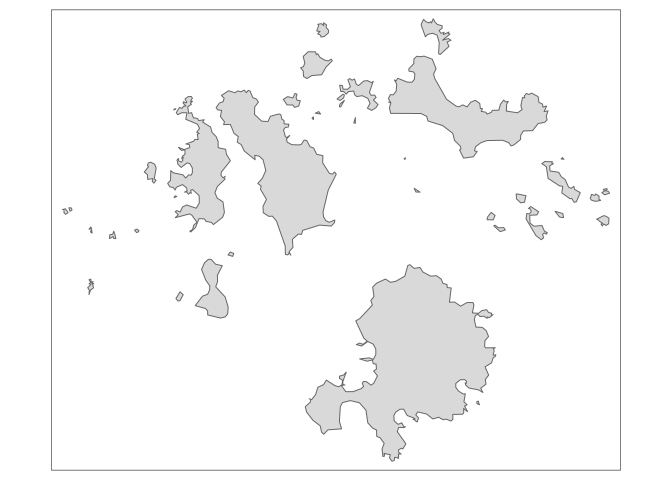
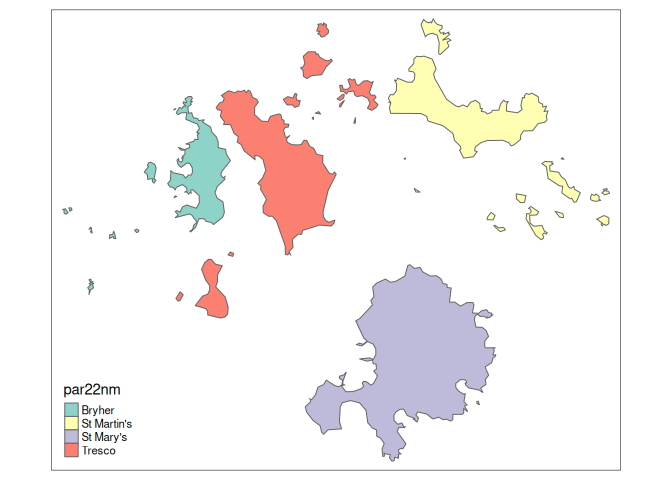
Improve examples in README

diff --git a/README.md b/README.md
@@ -22,11 +22,11 @@ column, as an `sf` object ready to be visualised as a map.
 
 The structure of the project looks a bit like this:
 
-    bounds() [main UI function]
+    bounds() / points() [main UI functions]
        ^
        |
        |
-        <-------  create_lookup_table()
+        <-------  create_lookup_table() [available to the user]
        |                ^
        |                |
        |                 <--------- return_query_data()
@@ -63,7 +63,7 @@ onto the lookup table and provided to you as an `sf` tibble.
 
 You can install this package from the `R` console by entering
 
-`remotes::install_github("francisbarton/boundr")`
+> `remotes::install_github("francisbarton/boundr")`
 
 if you have the `remotes` package installed.
 
@@ -74,24 +74,36 @@ if you have the `remotes` package installed.
 Returns sfc tibble with latest available data
 
 ``` r
+
 bounds("msoa", "lad", "Swansea")
-#> Simple feature collection with 150 features and 4 fields
+#> Simple feature collection with 30 features and 7 fields
 #> Geometry type: GEOMETRY
 #> Dimension:     XY
 #> Bounding box:  xmin: -4.333587 ymin: 51.53577 xmax: -3.842747 ymax: 51.77423
 #> Geodetic CRS:  WGS 84
 #> First 10 features:
-#>     lsoa21cd     lsoa21nm   lad23cd lad23nm                       geometry
-#> 1  W01000736 Swansea 028A W06000011 Swansea POLYGON ((-4.040871 51.5853...
-#> 2  W01000737 Swansea 028B W06000011 Swansea MULTIPOLYGON (((-4.0361 51....
-#> 3  W01000738 Swansea 014A W06000011 Swansea POLYGON ((-3.874889 51.6505...
-#> 4  W01000739 Swansea 014B W06000011 Swansea POLYGON ((-3.914009 51.6401...
-#> 5  W01000740 Swansea 014C W06000011 Swansea POLYGON ((-3.904865 51.6542...
-#> 6  W01000741 Swansea 014D W06000011 Swansea POLYGON ((-3.90558 51.65353...
-#> 7  W01000742 Swansea 016A W06000011 Swansea POLYGON ((-3.943777 51.6373...
-#> 8  W01000744 Swansea 016B W06000011 Swansea POLYGON ((-3.948747 51.6326...
-#> 9  W01000745 Swansea 025B W06000011 Swansea POLYGON ((-3.946384 51.6211...
-#> 10 W01000746 Swansea 025C W06000011 Swansea POLYGON ((-3.946375 51.6278...
+#>     msoa21cd    msoa21nm    msoa21nmw            msoa21hclnm
+#> 1  W02000168 Swansea 001 Abertawe 001          Pontarddulais
+#> 2  W02000169 Swansea 002 Abertawe 002         Clydach & Mawr
+#> 3  W02000170 Swansea 003 Abertawe 003        Morriston North
+#> 4  W02000171 Swansea 004 Abertawe 004 Llangyfelach & Tircoed
+#> 5  W02000172 Swansea 005 Abertawe 005              Gorseinon
+#> 6  W02000173 Swansea 006 Abertawe 006             Birchgrove
+#> 7  W02000174 Swansea 007 Abertawe 007                Loughor
+#> 8  W02000175 Swansea 008 Abertawe 008        Morriston South
+#> 9  W02000176 Swansea 009 Abertawe 009            Mynydd-bach
+#> 10 W02000177 Swansea 010 Abertawe 010             Llansamlet
+#>               msoa21hclnmw   lad23cd lad23nm                       geometry
+#> 1            Pontarddulais W06000011 Swansea MULTIPOLYGON (((-4.044836 5...
+#> 2           Clydach a Mawr W06000011 Swansea POLYGON ((-3.976283 51.7646...
+#> 3         Gogledd Treforys W06000011 Swansea POLYGON ((-3.913253 51.6935...
+#> 4  Llangyfelach a Thircoed W06000011 Swansea POLYGON ((-4.011018 51.7080...
+#> 5                Gorseinon W06000011 Swansea MULTIPOLYGON (((-4.062941 5...
+#> 6                Gellifedw W06000011 Swansea POLYGON ((-3.875069 51.6875...
+#> 7               Casllwchwr W06000011 Swansea MULTIPOLYGON (((-4.053356 5...
+#> 8              De Treforys W06000011 Swansea POLYGON ((-3.929819 51.6721...
+#> 9              Mynydd-bach W06000011 Swansea POLYGON ((-3.933911 51.6730...
+#> 10              Llansamlet W06000011 Swansea POLYGON ((-3.898853 51.6750...
 ```
 
 ### Lookup areas with older dates
@@ -100,24 +112,36 @@ Trial and error may be required - or start by looking up what is
 available on the OpenGeography site.
 
 ``` r
+
 bounds("msoa", "lad", "Shepway", lookup_year = 2011, within_year = 2015)
-#> Simple feature collection with 67 features and 4 fields
+#> Simple feature collection with 14 features and 5 fields
 #> Geometry type: POLYGON
 #> Dimension:     XY
 #> Bounding box:  xmin: 0.7770266 ymin: 50.91095 xmax: 1.221137 ymax: 51.205
 #> Geodetic CRS:  WGS 84
 #> First 10 features:
-#>     lsoa11cd     lsoa11nm   lad15cd lad15nm                       geometry
-#> 1  E01024486 Shepway 011A E07000112 Shepway POLYGON ((0.9871731 51.0385...
-#> 2  E01024487 Shepway 011B E07000112 Shepway POLYGON ((0.977373 51.0179,...
-#> 3  E01024488 Shepway 011C E07000112 Shepway POLYGON ((0.9724648 51.0127...
-#> 4  E01024489 Shepway 009A E07000112 Shepway POLYGON ((1.02856 51.05629,...
-#> 5  E01024490 Shepway 001A E07000112 Shepway POLYGON ((1.089762 51.18973...
-#> 6  E01024491 Shepway 005A E07000112 Shepway POLYGON ((1.13853 51.0908, ...
-#> 7  E01024492 Shepway 002A E07000112 Shepway POLYGON ((1.141129 51.10232...
-#> 8  E01024493 Shepway 005B E07000112 Shepway POLYGON ((1.146521 51.09351...
-#> 9  E01024494 Shepway 005C E07000112 Shepway POLYGON ((1.135277 51.09801...
-#> 10 E01024495 Shepway 005D E07000112 Shepway POLYGON ((1.1419 51.08616, ...
+#>     msoa11cd    msoa11nm                          msoa11hclnm   lad15cd lad15nm
+#> 1  E02005102 Shepway 001             Lyminge, Densole & Elham E07000112 Shepway
+#> 2  E02005103 Shepway 002                             Hawkinge E07000112 Shepway
+#> 3  E02005104 Shepway 003                Folkestone North East E07000112 Shepway
+#> 4  E02005105 Shepway 004                     Folkestone Foord E07000112 Shepway
+#> 5  E02005106 Shepway 005               Cheriton & Horn Street E07000112 Shepway
+#> 6  E02005107 Shepway 006       Folkestone Morehall & Sandgate E07000112 Shepway
+#> 7  E02005109 Shepway 008     Saltwood, Seabrook & Etchinghill E07000112 Shepway
+#> 8  E02005110 Shepway 009                    Lympne & Palmarsh E07000112 Shepway
+#> 9  E02005111 Shepway 010                                Hythe E07000112 Shepway
+#> 10 E02005112 Shepway 011 Dymchurch, St Mary's Bay & Brookland E07000112 Shepway
+#>                          geometry
+#> 1  POLYGON ((1.089762 51.18973...
+#> 2  POLYGON ((1.170835 51.13259...
+#> 3  POLYGON ((1.184798 51.09985...
+#> 4  POLYGON ((1.189394 51.08954...
+#> 5  POLYGON ((1.135277 51.09801...
+#> 6  POLYGON ((1.17032 51.0953, ...
+#> 7  POLYGON ((1.111727 51.12941...
+#> 8  POLYGON ((1.000461 51.1184,...
+#> 9  POLYGON ((1.062613 51.07642...
+#> 10 POLYGON ((0.9884286 51.0706...
 ```
 
 ### Alternative ways to achieve a goal
@@ -158,47 +182,7 @@ bounds("rgn", country_filter = "EN", resolution = "BUC")
 #> 7 14913854032    1066984.7 POLYGON ((-2.675591 55.1733...
 #> 8 19399927121    1389475.4 MULTIPOLYGON (((-1.590507 5...
 #> 9 24385283189    2378388.7 MULTIPOLYGON (((-6.398846 4...
-bounds("rgn", "ctry", "England", lookup_year = 2022, resolution = "BUC")
-#> Lookup table data ■■■■ 9% | ETA: 12sLookup table data ■■■■ 10% | ETA: 15sLookup
-#> table data ■■■■ 11% | ETA: 14sLookup table data ■■■■■ 13% | ETA: 13sLookup
-#> table data ■■■■■ 14% | ETA: 13sLookup table data ■■■■■■ 16% | ETA: 12sLookup
-#> table data ■■■■■■ 17% | ETA: 12sLookup table data ■■■■■■■ 20% | ETA: 11sLookup
-#> table data ■■■■■■■ 21% | ETA: 11sLookup table data ■■■■■■■■ 23% | ETA:
-#> 11sLookup table data ■■■■■■■■ 24% | ETA: 10sLookup table data ■■■■■■■■■ 26% |
-#> ETA: 10sLookup table data ■■■■■■■■■ 27% | ETA: 10sLookup table data ■■■■■■■■■■
-#> 30% | ETA: 9sLookup table data ■■■■■■■■■■ 31% | ETA: 9sLookup table data
-#> ■■■■■■■■■■■ 33% | ETA: 9sLookup table data ■■■■■■■■■■■ 34% | ETA: 9sLookup
-#> table data ■■■■■■■■■■■■ 36% | ETA: 9sLookup table data ■■■■■■■■■■■■ 37% | ETA:
-#> 8sLookup table data ■■■■■■■■■■■■■ 39% | ETA: 8sLookup table data ■■■■■■■■■■■■■
-#> 40% | ETA: 8sLookup table data ■■■■■■■■■■■■■ 41% | ETA: 8sLookup table data
-#> ■■■■■■■■■■■■■■ 43% | ETA: 8sLookup table data ■■■■■■■■■■■■■■ 44% | ETA:
-#> 7sLookup table data ■■■■■■■■■■■■■■■ 46% | ETA: 7sLookup table data
-#> ■■■■■■■■■■■■■■■ 47% | ETA: 7sLookup table data ■■■■■■■■■■■■■■■■ 50% | ETA:
-#> 7sLookup table data ■■■■■■■■■■■■■■■■ 51% | ETA: 6sLookup table data
-#> ■■■■■■■■■■■■■■■■■ 53% | ETA: 6sLookup table data ■■■■■■■■■■■■■■■■■ 54% | ETA:
-#> 6sLookup table data ■■■■■■■■■■■■■■■■■■ 56% | ETA: 6sLookup table data
-#> ■■■■■■■■■■■■■■■■■■ 57% | ETA: 6sLookup table data ■■■■■■■■■■■■■■■■■■■ 60% |
-#> ETA: 5sLookup table data ■■■■■■■■■■■■■■■■■■■ 61% | ETA: 5sLookup table data
-#> ■■■■■■■■■■■■■■■■■■■■ 63% | ETA: 5sLookup table data ■■■■■■■■■■■■■■■■■■■■ 64% |
-#> ETA: 5sLookup table data ■■■■■■■■■■■■■■■■■■■■■ 66% | ETA: 4sLookup table data
-#> ■■■■■■■■■■■■■■■■■■■■■ 67% | ETA: 4sLookup table data ■■■■■■■■■■■■■■■■■■■■■■ 69%
-#> | ETA: 5sLookup table data ■■■■■■■■■■■■■■■■■■■■■■ 70% | ETA: 4sLookup table
-#> data ■■■■■■■■■■■■■■■■■■■■■■ 71% | ETA: 4sLookup table data
-#> ■■■■■■■■■■■■■■■■■■■■■■■ 73% | ETA: 4sLookup table data ■■■■■■■■■■■■■■■■■■■■■■■
-#> 74% | ETA: 4sLookup table data ■■■■■■■■■■■■■■■■■■■■■■■■ 76% | ETA: 3sLookup
-#> table data ■■■■■■■■■■■■■■■■■■■■■■■■ 77% | ETA: 3sLookup table data
-#> ■■■■■■■■■■■■■■■■■■■■■■■■■ 80% | ETA: 3sLookup table data
-#> ■■■■■■■■■■■■■■■■■■■■■■■■■ 81% | ETA: 3sLookup table data
-#> ■■■■■■■■■■■■■■■■■■■■■■■■■■ 83% | ETA: 2sLookup table data
-#> ■■■■■■■■■■■■■■■■■■■■■■■■■■ 84% | ETA: 2sLookup table data
-#> ■■■■■■■■■■■■■■■■■■■■■■■■■■■ 87% | ETA: 2sLookup table data
-#> ■■■■■■■■■■■■■■■■■■■■■■■■■■■■ 89% | ETA: 2sLookup table data
-#> ■■■■■■■■■■■■■■■■■■■■■■■■■■■■ 90% | ETA: 1sLookup table data
-#> ■■■■■■■■■■■■■■■■■■■■■■■■■■■■ 91% | ETA: 1sLookup table data
-#> ■■■■■■■■■■■■■■■■■■■■■■■■■■■■■ 93% | ETA: 1sLookup table data
-#> ■■■■■■■■■■■■■■■■■■■■■■■■■■■■■■ 96% | ETA: 1sLookup table data
-#> ■■■■■■■■■■■■■■■■■■■■■■■■■■■■■■ 97% | ETA: 0sLookup table data
-#> ■■■■■■■■■■■■■■■■■■■■■■■■■■■■■■■ 99% | ETA: 0s
+bounds("region", "country", "England", lookup_year = 2022, resolution = "BUC")
 #> Simple feature collection with 9 features and 4 fields
 #> Geometry type: GEOMETRY
 #> Dimension:     XY
@@ -226,12 +210,59 @@ bounds("rgn", "ctry", "England", lookup_year = 2022, resolution = "BUC")
 #> 9 MULTIPOLYGON (((-6.349051 4...
 ```
 
-### A lookup table for Welsh local authorities to Senedd electoral regions
-
-Using `return_with = "full"` includes the Welsh language data columns.
+### You can just request bare lookup tables - no spatial data attached
 
 ``` r
-create_lookup_table("ua", "sener", return_width = "full") |>
+
+create_lookup_table("spc", "spr")
+#> # A tibble: 73 × 4
+#>    spc22cd   spc22nm                        spr22cd   spr22nm              
+#>    <chr>     <chr>                          <chr>     <chr>                
+#>  1 S16000083 Argyll and Bute                S17000011 Highlands and Islands
+#>  2 S16000086 Caithness, Sutherland and Ross S17000011 Highlands and Islands
+#>  3 S16000110 Na h-Eileanan an Iar           S17000011 Highlands and Islands
+#>  4 S16000125 Inverness and Nairn            S17000011 Highlands and Islands
+#>  5 S16000132 Moray                          S17000011 Highlands and Islands
+#>  6 S16000135 Orkney Islands                 S17000011 Highlands and Islands
+#>  7 S16000142 Shetland Islands               S17000011 Highlands and Islands
+#>  8 S16000143 Skye, Lochaber and Badenoch    S17000011 Highlands and Islands
+#>  9 S16000080 Almond Valley                  S17000012 Lothian              
+#> 10 S16000104 Edinburgh Central              S17000012 Lothian              
+#> # ℹ 63 more rows
+```
+
+### A lookup table for Welsh local authorities to Senedd electoral regions
+
+Sometimes boundr needs a little help finding what you are looking for.
+Supplying a year or country filter can help get the right table.
+
+Using `return_with = "full"` includes all available columns, not just
+those referred to by the `lookup` and `within` arguments.
+
+``` r
+
+# This doesn't succeed:
+# create_lookup_table("wd", "sener")
+
+# supplying a year helps:
+create_lookup_table("wd", "sener", lookup_year = 2022, return_width = "full")
+#> # A tibble: 764 × 7
+#>    wd22cd    wd22nm          ua22cd    ua22nm        ua22nmw sener22cd sener22nm
+#>    <chr>     <chr>           <chr>     <chr>         <chr>   <chr>     <chr>    
+#>  1 W05001492 Aethwy          W06000001 Isle of Angl… Ynys M… W10000001 North Wa…
+#>  2 W05001493 Bodowyr         W06000001 Isle of Angl… Ynys M… W10000001 North Wa…
+#>  3 W05001494 Bro Aberffraw   W06000001 Isle of Angl… Ynys M… W10000001 North Wa…
+#>  4 W05001495 Bro'r Llynnoedd W06000001 Isle of Angl… Ynys M… W10000001 North Wa…
+#>  5 W05001496 Canolbarth Môn  W06000001 Isle of Angl… Ynys M… W10000001 North Wa…
+#>  6 W05001497 Cefni           W06000001 Isle of Angl… Ynys M… W10000001 North Wa…
+#>  7 W05001498 Crigyll         W06000001 Isle of Angl… Ynys M… W10000001 North Wa…
+#>  8 W05001499 Lligwy          W06000001 Isle of Angl… Ynys M… W10000001 North Wa…
+#>  9 W05001500 Parc a'r Mynydd W06000001 Isle of Angl… Ynys M… W10000001 North Wa…
+#> 10 W05001501 Seiriol         W06000001 Isle of Angl… Ynys M… W10000001 North Wa…
+#> # ℹ 754 more rows
+
+# or a country filter:
+create_lookup_table("wd", "sener", country_filter = "WA", return_width = "full") |>
   dplyr::filter(sener22nm == "South Wales West")
 #> # A tibble: 4 × 7
 #>   wd22cd    wd22nm               ua22cd    ua22nm    ua22nmw sener22cd sener22nm
@@ -242,14 +273,21 @@ create_lookup_table("ua", "sener", return_width = "full") |>
 #> 4 W05001099 Pontyclun West       W06000016 Rhondda … Rhondd… W10000009 South Wa…
 ```
 
+### The sfc tibble is ready to be passed to a mapping function:
+
 ``` r
 bounds("parish", "utla", "Isles of Scilly") |>
-  tmap::qtm()
+  tmap::qtm(fill = "par22nm", palette = "Accent")
 ```
 
 <img src="man/figures/README-example-5-1.png" width="100%" />
 
+### bounds now supports a shortcut which will return all bounds for a certain level, without having to specify a ‘within’ argument
+
+Take care - you might download a lot of data!
+
 ``` r
+
 bounds("spr")
 #> Simple feature collection with 8 features and 8 fields
 #> Geometry type: GEOMETRY
@@ -276,26 +314,53 @@ bounds("spr")
 #> 8    193925.75 POLYGON ((-3.425965 55.9938...
 ```
 
+### The points() function returns area (population-weighted) centroids where available
+
+(Check the OG website).
+
 ``` r
 sb <- bounds("msoa", "lad", "Swindon")
 sp <- points("msoa", "utla", "Swindon")
 
 sb |>
   ggplot2::ggplot() +
-  ggplot2::geom_sf() +
+  ggplot2::geom_sf(colour = "grey33", fill = "grey95") +
   ggplot2::geom_sf(data = sp, colour = "orange") +
   ggplot2::theme_void()
 ```
 
 <img src="man/figures/README-example-7-1.png" width="100%" />
 
+### A ggplot2 example
+
+Here we specify a ‘within_names’ argument alongside the ‘lookup’
+argument. There’s no ‘within’ argument to be specified because there’s
+nothing to lookup. (There aren’t any lookup tables for National Parks -
+just the boundaries).
+
 ``` r
+
 bounds("npark", within_names = "Bannau Brycheiniog", resolution = "BUC") |>
   ggplot2::ggplot() +
   ggplot2::geom_sf()
 ```
 
 <img src="man/figures/README-example-8-1.png" width="100%" />
+
+### Aliases
+
+For certain geographic levels you can supply a more human-friendly
+alias, so you don’t need to remember the abbreviated prefix.
+
+| alias   | actual argument (geo prefix) used |
+|---------|-----------------------------------|
+| parish  | par                               |
+| ward    | wd                                |
+| region  | rgn                               |
+| county  | cty                               |
+| country | ctry                              |
+
+Ideas for other useful aliases happily received.
 
 ## Contributing
 
